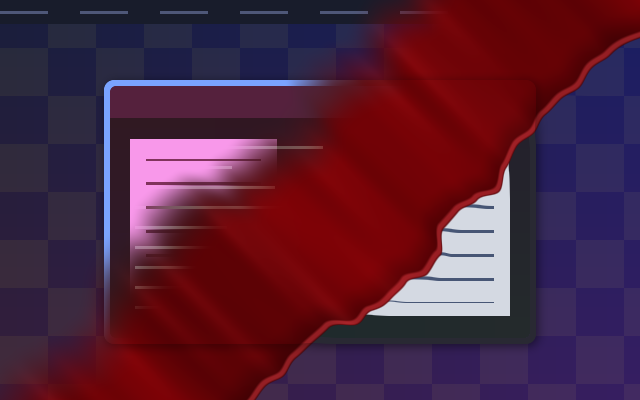
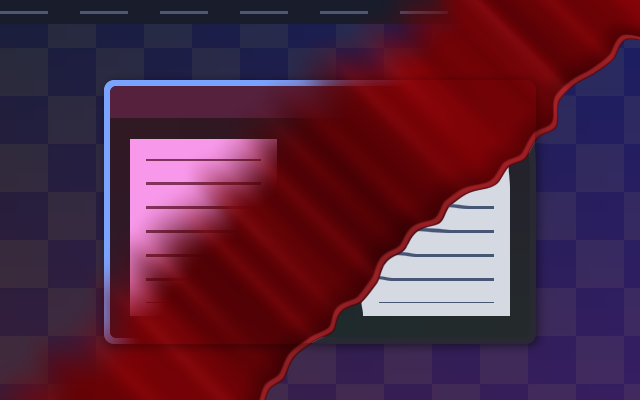
Fix departing scene reappearing behind vampire blood wash

diff --git a/VALIDATION.md b/VALIDATION.md
@@ -2,6 +2,24 @@
 
 The initial collection was checked on 2026-09-27.
 
+## Vampire Blood Wash trailing-scene fix (2026-10-10)
+
+The blood band previously began fading before the outgoing-to-incoming blend
+completed, allowing the departing scene to reappear through the trailing edge.
+The scene now changes at the leading edge under the opaque blood. Draining blood
+uncovers only the incoming scene. Direction, artwork and duration are unchanged.
+
+- A regression check varies only the outgoing texture between black and white
+  and measures its contribution at each pixel over 121 progress values. The old
+  shader fails when the outgoing scene reappears. The fix passes all 968 frames
+  across both directions and landscape/portrait sizes: outgoing contribution
+  never increases as progress advances.
+- The existing 640-frame endpoint, alpha, scale, overshoot and reversal checks,
+  plus 18 direction/reflection checks, also pass.
+- Fresh private compositor captures exercise wallpaper, panels and populated
+  workspaces in both directions. Empty/populated completion and cancelled swipes
+  return pixel-identical resting scenes on Umbriel `0.1.0 (2145668)`.
+
 ## Vampire Wake (2026-10-10)
 
 Added `vampire-wake`, a Witchfire-derived crimson cursor ribbon with burgundy

diff --git a/animation/vampire-blood-wash/README.md b/animation/vampire-blood-wash/README.md
@@ -2,7 +2,9 @@
 
 A Vampire-family workspace reveal: a thick wine-red wash rolls over the entire
 scene with rounded rivulets, crimson streaks and a glossy wet edge. The incoming
-workspace appears as the blood drains behind the advancing front.
+workspace appears as the blood drains behind the advancing front. The scene
+switch happens under the opaque leading edge, so the departing workspace cannot
+show through again as the blood fades.
 
 - **Downwards:** top-left to bottom-right.
 - **Upwards:** bottom-left to top-right.
